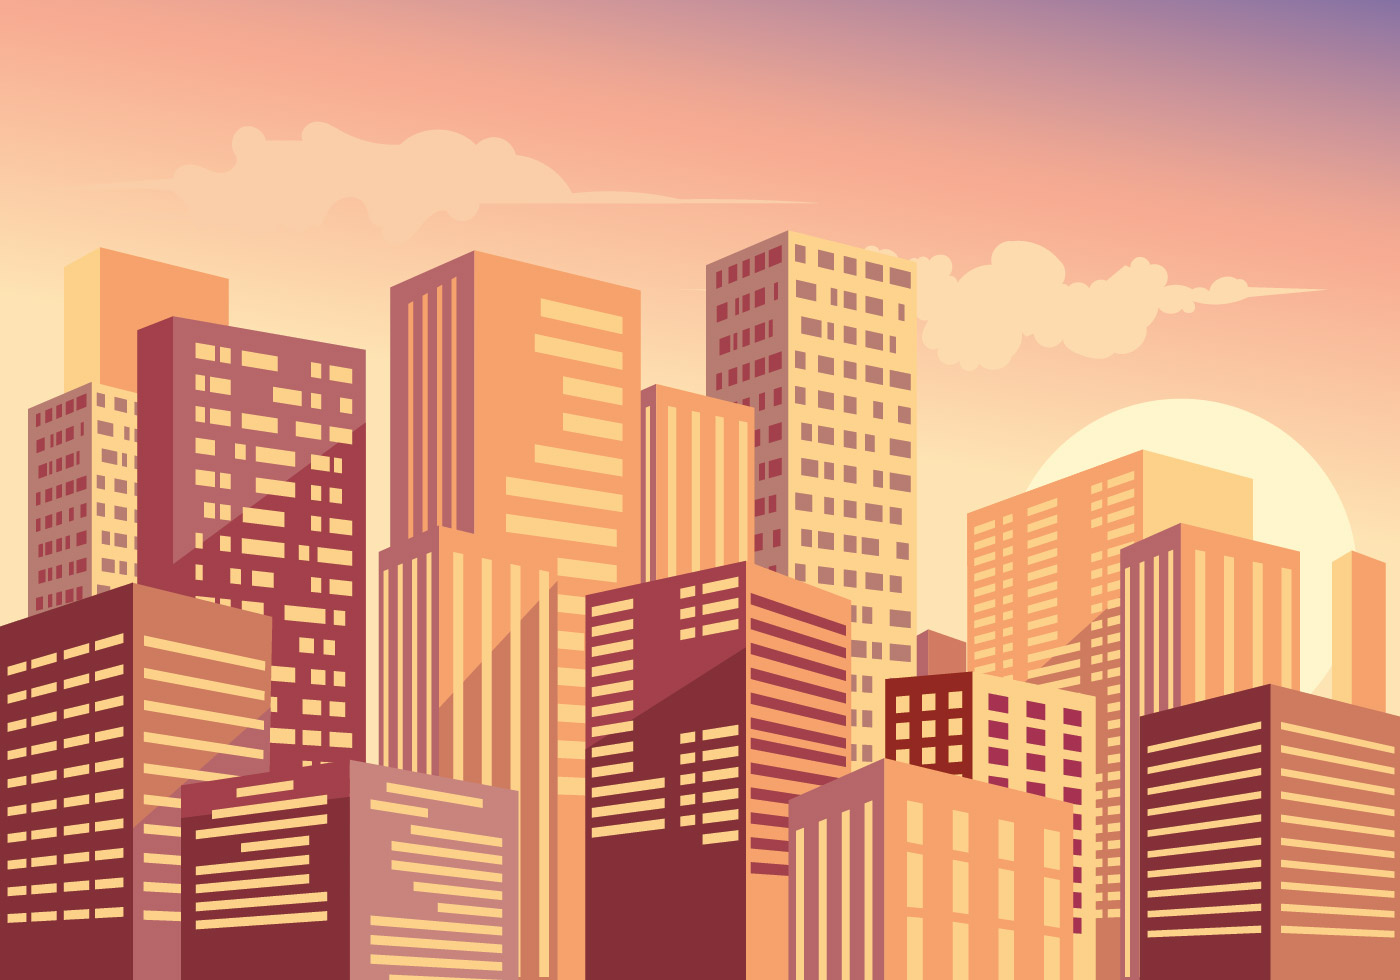
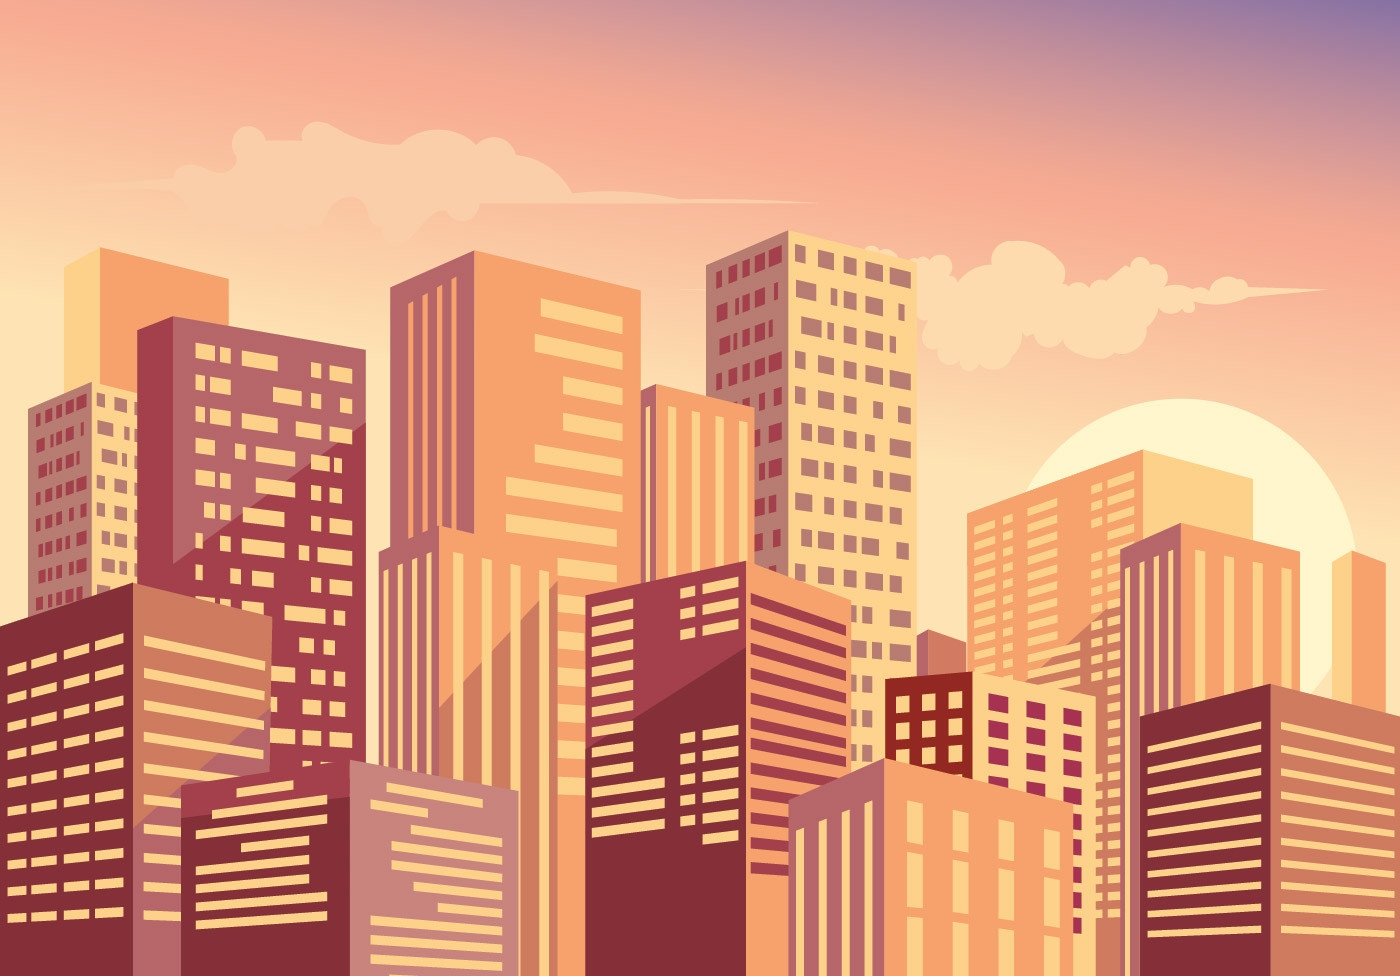
Match the cityscape source to its trace, and rename the noise column
The 1400x976 webp is what VTracer actually traced; the old 1400x980 jpg
was a different export, which is where the mismatch came from. Re-encoded
it to jpg at 4:4:4 and quality 90 — chroma subsampling put a peak delta
of 37 into the sky, which would have banded the very gradient this
sample exists to show. Lands at 230 KB, under the file it replaces.

Framing now also pins the art to the stage edges when it is large enough
to cover them, so a focus point can no longer pull a gap open. That was
the white bar along the top of the cityscape.

"Through the compression" was not conveying, so the column is now
"Edges, not artifacts", matching the shape of the two either side of it.

Make the download section carry the trial scarcity

The footer was restating the pricing model in small grey text, which is
the wrong place for it. Dropped, and the section that already makes the
argument now carries it properly: the limited trial gets its own marked
banner above the platform cards rather than trailing the heading note.

Also removes the last friction from the copy — no account, no waitlist,
no card — so the app is the only step between reading and trying.

Fix the trial claim, and frame it as an invitation

"No account, no waitlist, no card" was wrong: the trial does need an
account. Only the card part was true, so that is all the copy claims now.

The scarcity also read as a growth tactic — a queue to beat. Reframed
[…]

diff --git a/src/site.ts b/src/site.ts
@@ -43,8 +43,8 @@ export const COMPARISONS = [
     },
   },
   {
-    id: "mascot",
-    label: "Mascot",
+    id: "graphic",
+    label: "Graphic",
     aspect: 1,
     focus: { x: 0.51, y: 0.5, zoom: 1 },
     original: { src: "/compare/tiger-woman.webp", note: "512 × 512 WebP" },
@@ -66,15 +66,19 @@ export const SHOWCASE = [
     blurb:
       "A sky that fades stays a fade — emitted as a gradient rather than sliced into a hundred flat steps.",
     aspect: 1400 / 976,
-    focus: { x: 0.5, y: 0.46, zoom: 1.1 },
+    // Landscape art in a 4:3 stage barely covers it; the extra zoom gives the
+    // vertical crop something to work with.
+    focus: { x: 0.5, y: 0.48, zoom: 1.2 },
+    // Re-encoded from the 1400x976 source VTracer actually traced, at 4:4:4 so
+    // JPEG banding does not spoil the very gradient this sample is showing.
     original: "/compare/cityscape-sunset.jpg",
     vtracer: "/compare/cityscape-sunset.svg",
   },
   {
     id: "denoise",
-    title: "Through the compression",
+    title: "JPEG compression? No problem",
     blurb:
-      "The source has been round-tripped until its edges crawl. Cropped to the face, where the noise shows.",
+      "Got only heavily degraded JPEG? VTracer 2 removes noises and recovers detail, leaving artifacts behind.",
     aspect: 496 / 512,
     focus: { x: 0.465, y: 0.19, zoom: 1.9 },
     original: "/compare/corgi-noise.webp",
@@ -107,11 +111,11 @@ export const FEATURES = [
   },
   {
     title: "No hallucination",
-    body: "Upscaling models love to invent. Ours does not. Every detail in the output traces back to something that was genuinely in your input — that constraint is engineered in, not hoped for.",
+    body: "Upscaling models love to invent. Ours does not. Every detail in the output traces back to something that was genuinely in your input — that constraint is engineered in.",
   },
   {
     title: "Runs on your device",
-    body: "A 4.5M-parameter model: small enough to be quick and entirely local, Metal-accelerated on macOS. Nothing is uploaded, and there is no queue to wait in.",
+    body: "A 4.5M-parameter model: small enough to be quick and entirely local, Metal-accelerated on macOS. Nothing is uploaded, your artwork stays private.",
   },
   {
     title: "Survives real JPEGs",
@@ -123,7 +127,7 @@ export const FEATURES = [
   },
   {
     title: "Stacked mode",
-    body: "VTracer's signature output: shapes layered rather than cut against one another. Fewer nodes, smaller files, and a document that is actually pleasant to open and edit.",
+    body: "VTracer's unique feature: shapes layered rather than cut against one another. Fewer nodes, smaller files, and a document that is actually pleasant to open and edit.",
   },
 ];
 

diff --git a/src/index.css b/src/index.css
@@ -827,7 +827,50 @@ body::after {
   line-height: 1.6;
 }
 
-/* ---------------------------------------------------------- early access */
+/* -------------------------------------------------------------- download */
+
+.scarcity {
+  display: flex;
+  /* Sits level with the first line, rather than floating mid-paragraph when
+     the text wraps on narrow screens. */
+  align-items: flex-start;
+  gap: 14px;
+  margin: 0 0 18px;
+  padding: 16px 22px;
+  border: 1px solid rgba(0, 136, 247, 0.28);
+  background: var(--brand-soft);
+  border-radius: 12px;
+  font-size: 0.9375rem;
+  line-height: 1.55;
+  color: var(--fg);
+}
+
+.scarcity b {
+  font-weight: 500;
+}
+
+.scarcity-dot {
+  flex: none;
+  margin-top: 8px;
+  width: 8px;
+  height: 8px;
+  border-radius: 50%;
+  background: var(--brand);
+  box-shadow: 0 0 0 4px rgba(0, 136, 247, 0.2);
+  animation: pulse 2.4s ease-in-out infinite;
+}
+
+@keyframes pulse {
+  50% {
+    opacity: 0.4;
+  }
+}
+
+@media (prefers-reduced-motion: reduce) {
+  .scarcity-dot {
+    animation: none;
+  }
+}
 
 .platform-strip {
   display: grid;
@@ -918,30 +961,56 @@ body::after {
 }
 
 .footer-inner {
-  display: flex;
-  flex-wrap: wrap;
-  align-items: center;
-  gap: 20px 32px;
   font-size: 0.875rem;
-  color: var(--muted);
-}
-
-.footer-note {
   color: var(--muted-2);
 }
 
-.footer-links {
-  display: flex;
-  flex-wrap: wrap;
-  gap: 24px;
-  margin-left: auto;
-}
-
-.footer-links a {
+.footer-inner a {
   color: var(--muted);
   transition: color 0.18s ease;
 }
 
-.footer-links a:hover {
+.footer-inner a:hover {
   color: var(--fg);
+}
+
+.star-btn {
+  display: inline-flex;
+  align-items: stretch;
+  margin-top: 22px;
+  border: 1px solid var(--line-strong);
+  border-radius: 999px;
+  overflow: hidden;
+  font-size: 0.875rem;
+  font-weight: 500;
+  transition:
+    border-color 0.18s ease,
+    background-color 0.18s ease;
+}
+
+.star-btn:hover {
+  border-color: var(--fg);
+  background: rgba(255, 255, 255, 0.05);
+}
+
+.star-btn-main {
+  display: inline-flex;
+  align-items: center;
+  gap: 9px;
+  padding: 10px 18px;
+}
+
+.star-btn-main svg {
+  color: var(--gold);
+}
+
+.star-btn-count {
+  display: inline-flex;
+  align-items: center;
+  padding: 10px 18px;
+  border-left: 1px solid var(--line-strong);
+  background: rgba(255, 255, 255, 0.04);
+  font-family: var(--mono);
+  font-size: 0.8125rem;
+  color: var(--muted);
 }

diff --git a/src/App.tsx b/src/App.tsx
@@ -1,4 +1,5 @@
 import Showcase from "./components/Showcase";
+import StarButton from "./components/StarButton";
 import Features from "./components/Features";
 import Footer from "./components/Footer";
 import Hero from "./components/Hero";
@@ -61,15 +62,21 @@ export default function App() {
               <span className="section-num">03</span>
               <div>
                 <h2 className="display section-title">
-                  The app is <span className="accent">free</span>. VTracer 2 is the add‑in.
+                  Start with the <span className="accent">free</span> app
                 </h2>
                 <p className="section-note">
-                  Download the app and it is yours, no strings. VTracer 2 switches on from inside it
-                  — and while we tune the engine we are handing trial activations to a limited number
-                  of designers at a time.
+                  Download the app and it is yours, no strings. VTracer 2 switches on from inside
+                  it — a free trial, no card required.
                 </p>
               </div>
             </div>
+            <p className="scarcity">
+              <span className="scarcity-dot" aria-hidden="true" />
+              <span>
+                <b>We invite professional designers and illustrators to shape our product.</b> Seats
+                are limited — create an account in the app to request one.
+              </span>
+            </p>
             <Platforms />
           </div>
         </section>
@@ -86,6 +93,7 @@ export default function App() {
                   The original engine is MIT-licensed, recently revamped, and free to use in anything
                   you build. That is not changing.
                 </p>
+                <StarButton />
               </div>
             </div>
             <Install />

diff --git a/src/components/Wipe.tsx b/src/components/Wipe.tsx
@@ -8,17 +8,23 @@ type Focus = { x: number; y: number; zoom: number };
  * both layers use the identical framing without measuring anything.
  *
  * Height is set rather than left to each image's own aspect, so a source and
- * its trace stay registered even when they differ by a pixel or two — the
- * cityscape source is 1400x980 against a 1400x976 trace.
+ * its trace stay registered even if a future pair differs by a pixel or two.
  */
 function frame(stageAspect: number, aspect: number, focus: Focus) {
   const w = focus.zoom * 100;
   const h = focus.zoom * (stageAspect / aspect) * 100;
+
+  // Honour the focus point, but never so far that the art pulls away from an
+  // edge and lets the stage show through. Only clamps on an axis the image is
+  // actually big enough to cover.
+  const pin = (offset: number, size: number) =>
+    size >= 100 ? Math.min(0, Math.max(100 - size, offset)) : offset;
+
   return {
     width: `${w}%`,
     height: `${h}%`,
-    left: `${50 - focus.x * w}%`,
-    top: `${50 - focus.y * h}%`,
+    left: `${pin(50 - focus.x * w, w)}%`,
+    top: `${pin(50 - focus.y * h, h)}%`,
   };
 }
 

diff --git a/src/useStars.ts b/src/useStars.ts
@@ -1,0 +1,27 @@
+import { useEffect, useState } from "react";
+
+const API = "https://api.github.com/repos/visioncortex/vtracer";
+
+/**
+ * Live star count for the badge. Unauthenticated GitHub allows 60 requests an
+ * hour per IP, which is per-visitor rather than shared, and the badge simply
+ * renders without a number if the call does not land.
+ */
+export function useStars(): number | null {
+  const [stars, setStars] = useState<number | null>(null);
+
+  useEffect(() => {
+    const abort = new AbortController();
+    fetch(API, { signal: abort.signal })
+      .then((res) => (res.ok ? res.json() : null))
+      .then((data: { stargazers_count?: number } | null) => {
+        if (typeof data?.stargazers_count === "number") setStars(data.stargazers_count);
+      })
+      .catch(() => {
+        // Rate limited or offline: the badge stands on its own.
+      });
+    return () => abort.abort();
+  }, []);
+
+  return stars;
+}

diff --git a/src/components/Footer.tsx b/src/components/Footer.tsx
@@ -1,20 +1,12 @@
-import { DOCS, ORG, REPO } from "../site";
+import { ORG } from "../site";
 
 export default function Footer() {
   return (
     <footer className="footer">
       <div className="shell footer-inner">
-        <span>© {new Date().getFullYear()} Vision Cortex</span>
-        <span className="footer-note">
-          The app is free. VTracer 2 is a paid add-in. VTracer 1 is MIT-licensed.
+        <span>
+          © {new Date().getFullYear()} <a href={ORG}>Vision Cortex</a>
         </span>
-        <nav className="footer-links">
-          <a href="#download">Download</a>
-          <a href="#open-source">VTracer 1</a>
-          <a href={REPO}>GitHub</a>
-          <a href={DOCS}>Algorithm docs</a>
-          <a href={ORG}>Vision Cortex</a>
-        </nav>
       </div>
     </footer>
   );

diff --git a/src/components/StarButton.tsx b/src/components/StarButton.tsx
@@ -1,0 +1,18 @@
+import { REPO } from "../site";
+import { useStars } from "../useStars";
+
+export default function StarButton() {
+  const stars = useStars();
+
+  return (
+    <a className="star-btn" href={REPO}>
+      <span className="star-btn-main">
+        <svg viewBox="0 0 16 16" width="15" height="15" fill="currentColor" aria-hidden="true">
+          <path d="M8 .25a.75.75 0 0 1 .673.418l1.882 3.815 4.21.612a.75.75 0 0 1 .416 1.279l-3.046 2.97.719 4.192a.75.75 0 0 1-1.088.791L8 12.347l-3.766 1.98a.75.75 0 0 1-1.088-.79l.72-4.194L.818 6.374a.75.75 0 0 1 .416-1.28l4.21-.611L7.327.668A.75.75 0 0 1 8 .25Z" />
+        </svg>
+        Star on GitHub
+      </span>
+      {stars !== null && <span className="star-btn-count">{stars.toLocaleString()}</span>}
+    </a>
+  );
+}
